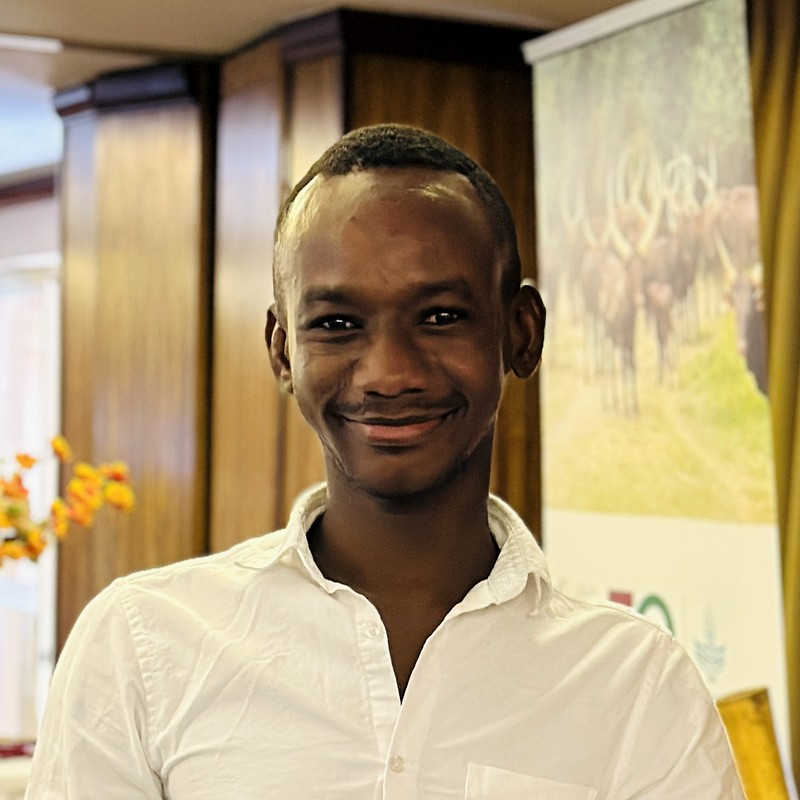
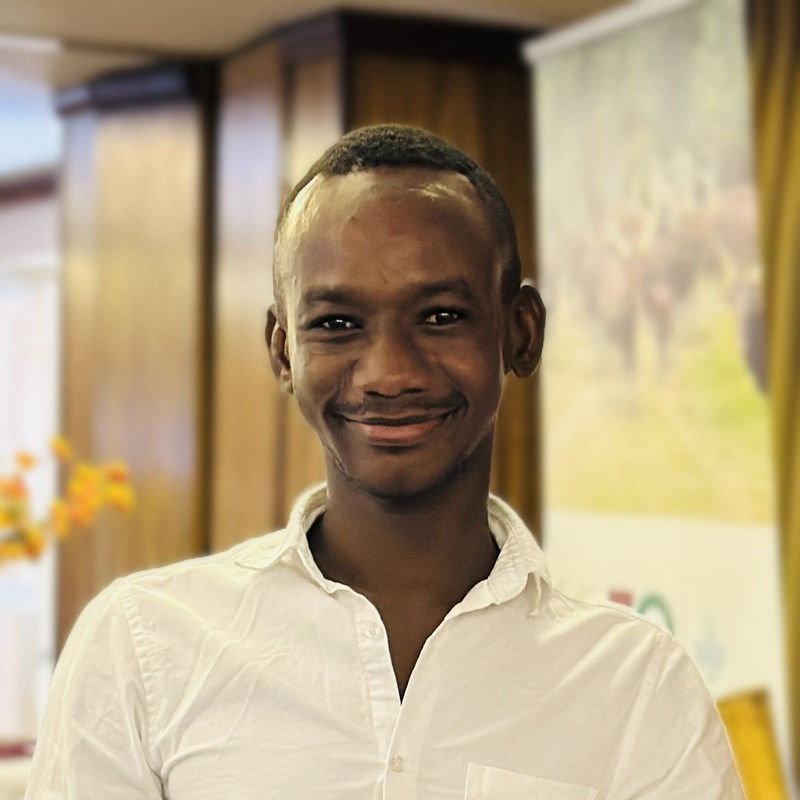
Use lightly edited profile photo

diff --git a/blogposts.html b/blogposts.html
@@ -32,7 +32,7 @@
 
 <div class="layout">
   <aside class="profile">
-    <img src="photo.jpg?v=2" alt="Portrait of Hardi Ahmed">
+    <img src="photo.jpg?v=3" alt="Portrait of Hardi Ahmed">
     <h2>Hardi Ahmed</h2>
     <p>Researcher</p>
     <p>NOVA School of Business and Economics &amp; NOVAFRICA</p>

diff --git a/index.html b/index.html
@@ -81,7 +81,7 @@
 
 <div class="layout">
   <aside class="profile">
-    <img src="photo.jpg?v=2" alt="Portrait of Hardi Ahmed">
+    <img src="photo.jpg?v=3" alt="Portrait of Hardi Ahmed">
     <h2>Hardi Ahmed</h2>
     <p>Researcher</p>
     <p>NOVA School of Business and Economics &amp; NOVAFRICA</p>

diff --git a/research.html b/research.html
@@ -32,7 +32,7 @@
 
 <div class="layout">
   <aside class="profile">
-    <img src="photo.jpg?v=2" alt="Portrait of Hardi Ahmed">
+    <img src="photo.jpg?v=3" alt="Portrait of Hardi Ahmed">
     <h2>Hardi Ahmed</h2>
     <p>Researcher</p>
     <p>NOVA School of Business and Economics &amp; NOVAFRICA</p>
